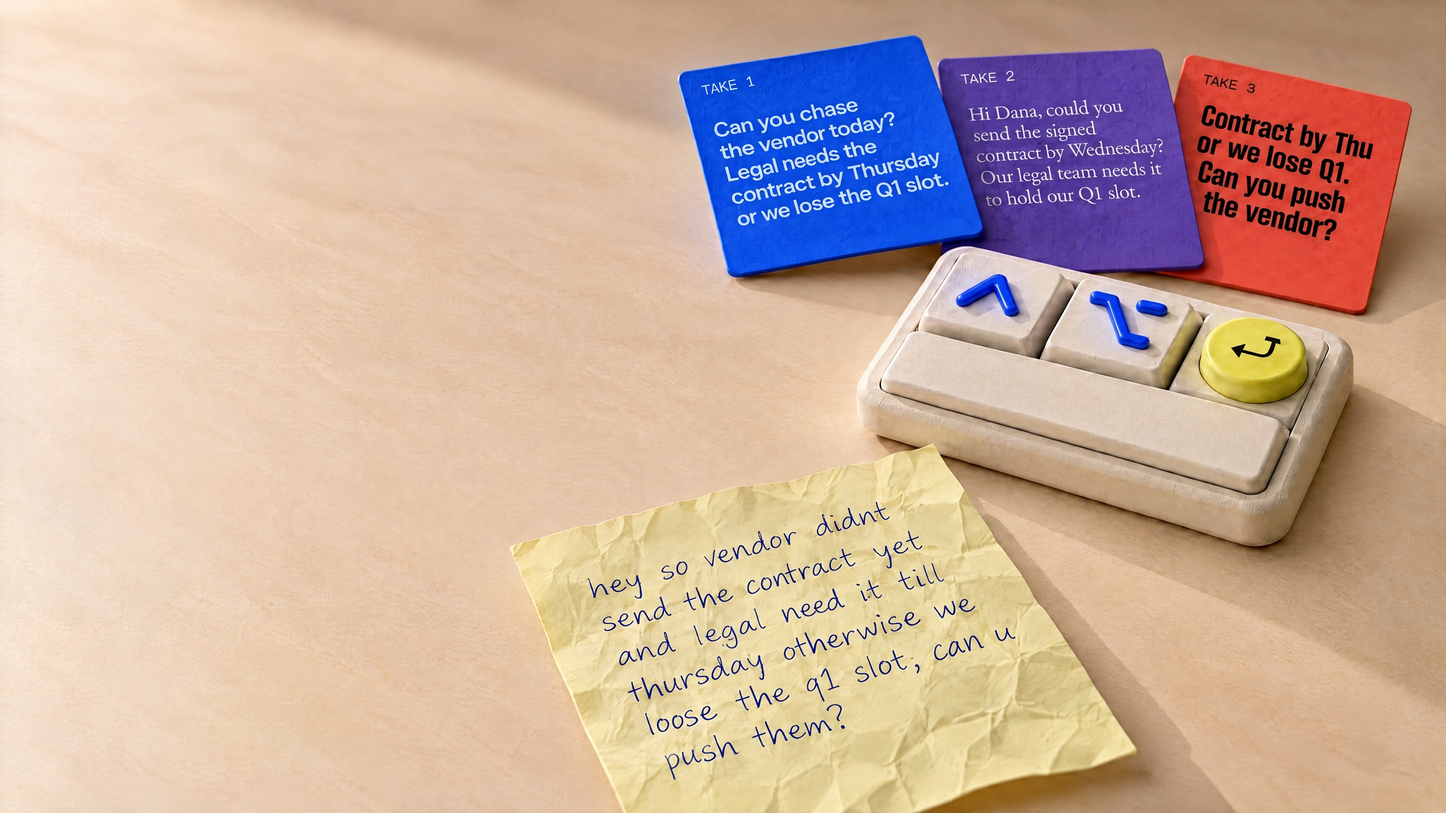
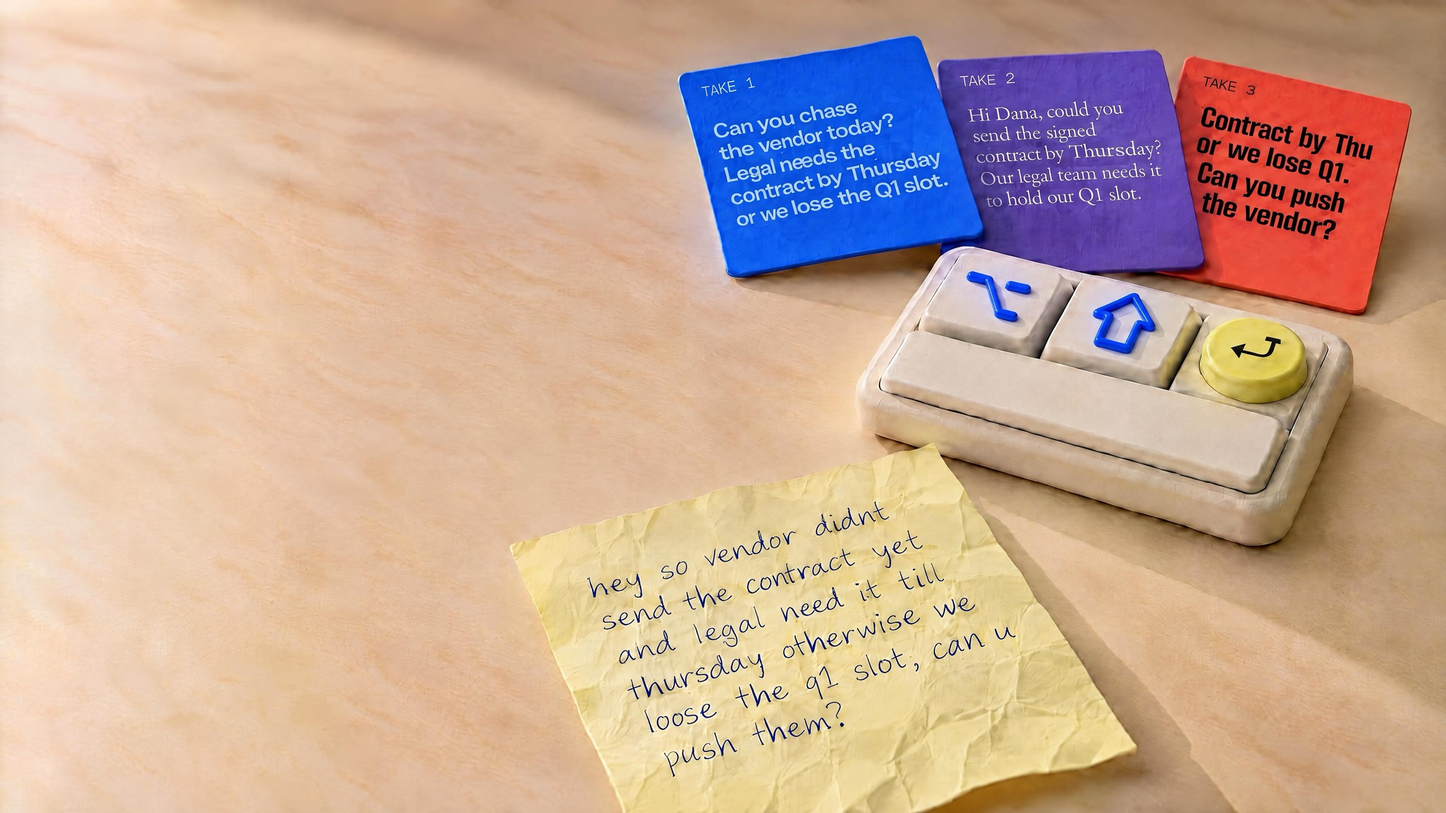
Onboarding: show the ⌥⇧Space hotkey and keep take 2's Thursday deadline
The opening screen's photo showed the old ⌃⌥ keys, and take 2 changed the
draft's Thursday deadline to Wednesday. Regenerated with GPT Image 2.6
(high, 4K) from the previous version; every word on the cards and the note
was checked at full size.

Assisted-by: Claude Code

diff --git a/brand/onboarding/README.md b/brand/onboarding/README.md
@@ -1,12 +1,12 @@
 # Onboarding opening image
 
-`opening-4k.jpg` (3840 × 2160) is the photo behind the proposed onboarding opening screen and the matching promo still. It reads near to far: the rough draft on a sticky note, the ⌃⌥ keyboard with the Acid return key, then three takes in their preset colours (Cobalt for Slack, violet for email, Tomato for Shorter), each set in a typeface that matches its tone. The left side is left empty for the headline "Write it rough. Pick your take." and the Get started button.
+`opening-4k.jpg` (3840 × 2160) is the photo behind the proposed onboarding opening screen and the matching promo still. It reads near to far: the rough draft on a sticky note, the ⌥⇧ keyboard (with a space bar, for the ⌥⇧Space hotkey) and the Acid return key, then three takes in their preset colours (Cobalt for Slack, violet for email, Tomato for Shorter), each set in a typeface that matches its tone. The left side is left empty for the headline "Write it rough. Pick your take." and the Get started button.
 
-Generated with GPT Image 2.5 (high, 4K) via Higgsfield on 2026-11-04, using `brand/hero/key-2.jpg` as the style reference. Regenerated with GPT Image 2.6 (high, 4K) on 2026-11-08, using the first version as the reference, because the note said "neid" instead of "need". It is generated art: check the card and note text letter by letter before using it.
+Generated with GPT Image 2.5 (high, 4K) via Higgsfield on 2026-11-04, using `brand/hero/key-2.jpg` as the style reference. Regenerated with GPT Image 2.6 (high, 4K) on 2026-11-08, using the first version as the reference, because the note said "neid" instead of "need". Regenerated again with GPT Image 2.6 (high, 4K) on 2026-11-12, using the previous version as the reference, to show the current hotkey (⌥⇧ instead of ⌃⌥) and to make take 2 keep the draft's Thursday deadline instead of changing it to Wednesday. Five of the six tries misspelled Thursday (Whursday, Thuresday, Thurssday). It is generated art: check the card and note text letter by letter before using it.
 
 The draft and takes shown:
 
 - Draft: "hey so vendor didnt send the contract yet and legal need it till thursday otherwise we loose the q1 slot, can u push them?"
 - Take 1: "Can you chase the vendor today? Legal needs the contract by Thursday or we lose the Q1 slot."
-- Take 2: "Hi Dana, could you send the signed contract by Wednesday? Our legal team needs it to hold our Q1 slot."
+- Take 2: "Hi Dana, could you send the signed contract by Thursday? Our legal team needs it to hold our Q1 slot."
 - Take 3: "Contract by Thu or we lose Q1. Can you push the vendor?"
